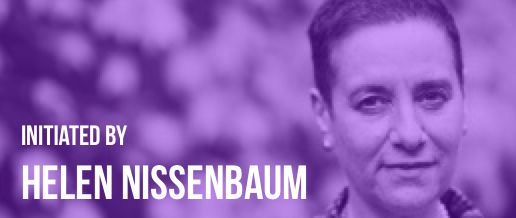
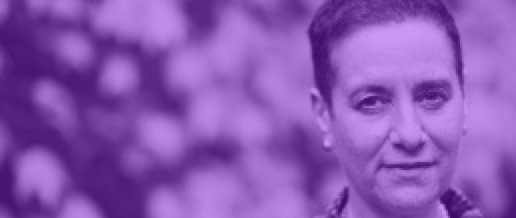
dynamic text for images and order change

Changed region(s): [[0.031, 0.7431, 0.6202, 0.9358], [0.031, 0.5505, 0.2481, 0.6881]]

diff --git a/css/main.css b/css/main.css
@@ -323,6 +323,20 @@ section p a:visited {
    	display: block;
    }
 
+  .parner span,
+  .parner strong{
+    font-size: 24px;
+    font-family: "Bebas Neue";
+    color: #fff;
+    position: absolute;
+    left: 10px;
+    bottom: 5px;
+  }
+
+  .parner span{
+    font-size: 14px;
+    bottom: 29px;
+  }
 
  /* ==========================================================================
    Press Release
@@ -340,23 +354,23 @@ section p a:visited {
    z-index: 10;
  }*/
 
- #freeadnauseam span {
-   font-family: 'BebasNeue';
-   background: #000;
-   color: #D8000C;
-   padding: 0px 10px 3px;
-   border-radius: 3px;
-   border: #D8000C 2px solid;
-   display: block;
-   position: absolute;
-   bottom: -12px;
-   left: 50%;
-   margin-left: -50px;
-   width: 100px;
-   height: 20px;
-   z-index: 10;
-   font-size: 1.1em;
- }
+#freeadnauseam span {
+  font-family: 'BebasNeue';
+  background: #000;
+  color: #D8000C;
+  padding: 0px 10px 3px;
+  border-radius: 3px;
+  border: #D8000C 2px solid;
+  display: block;
+  position: absolute;
+  bottom: -12px;
+  right: 0;
+  margin-right: -60px;
+  width: 100px;
+  height: 20px;
+  z-index: 10;
+  font-size: 1.1em;
+}
 
  #freeadnauseam:hover span {
    background: #D8000C;
@@ -655,8 +669,8 @@ header h2{
   #pressblock     {left: 292px; top: 1650px; -webkit-animation-delay: 2200ms; animation-delay: 2200ms}
   #contact        {left: 272px; top: 620px; -webkit-animation-delay: 1400ms; animation-delay: 1400ms}
   #faq            {left: 109px; top: 856px; -webkit-animation-delay: 1600ms; animation-delay: 1600ms}
-  #helen          {left: 4px;   top: 620px; -webkit-animation-delay: 1800ms; animation-delay: 1800ms}
-  #mushon         {left: 150px;  top: 736px; -webkit-animation-delay: 2000ms; animation-delay: 2000ms}
+  #mushon         {left: 4px;   top: 620px; -webkit-animation-delay: 1800ms; animation-delay: 1800ms}
+  #helen          {left: 150px;  top: 736px; -webkit-animation-delay: 2000ms; animation-delay: 2000ms}
   #book           {left: 428px; top: 1800px; -webkit-animation-delay: 2400ms; animation-delay: 2000ms}
   #new            {left: 779px; top: 1325px; -webkit-animation-delay: 2800ms; animation-delay: 2400ms}
   #twitter        {left: 760px; top: 870px; -webkit-animation-delay: 2600ms; animation-delay: 2600ms}

diff --git a/index.html b/index.html
@@ -108,16 +108,28 @@
           <a href="press-release.html"><img src="img/press-release.png" alt="Adnauseam 3.0 Press Release"></a>
         </div>
 
-        <div id="helen" class="ani-left">
-          <a href="https://www.nyu.edu/projects/nissenbaum/" target="_blank"><img src="img/helen.png" alt="Initiated by Helen Nissnbaum"></a>
+        <div id="daniel" class="ani-left parner">
+          <a href="http://rednoise.org/~dhowe" target="_blank">
+            <span>Lead Developer and Co-Initiator</span>
+            <strong>Daniel C. Howe</strong>
+            <img src="img/daniel.png" alt="Daniel C. Howe">
+          </a>
         </div>
 
-        <div id="daniel" class="ani-left">
-          <a href="http://rednoise.org/~dhowe" target="_blank"><img src="img/daniel.png" alt="Developed by Daniel C. Howe"></a>
+        <div id="mushon" class="ani-left parner">
+          <a href="http://mushon.com" target="_blank">
+            <span>Lead Designer</span>
+            <strong>Mushon Zer-Aviv</strong>
+            <img src="img/mushon.png" alt="Mushon Zer-Aviv">
+          </a>
         </div>
 
-        <div id="mushon" class="ani-left">
-          <a href="http://mushon.com" target="_blank"><img src="img/mushon.png" alt="Designed by Mushon Zer-Aviv"></a>
+        <div id="helen" class="ani-left parner">
+          <a href="https://www.nyu.edu/projects/nissenbaum/" target="_blank">
+            <span>Co-Initiator</span>
+            <strong>Helen Nissenbaum</strong>
+            <img src="img/helen.png" alt="Helen Nissnbaum">
+          </a>
         </div>
 
         <div id="faq" class="ani-left">
